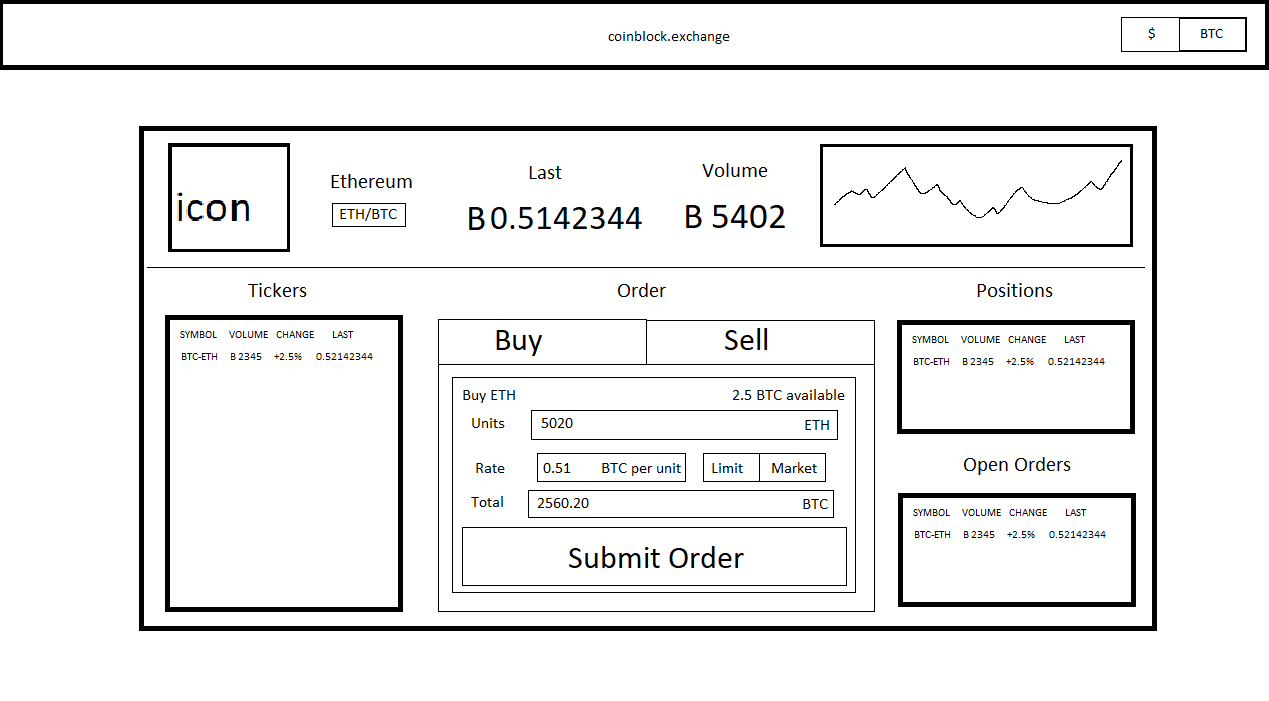
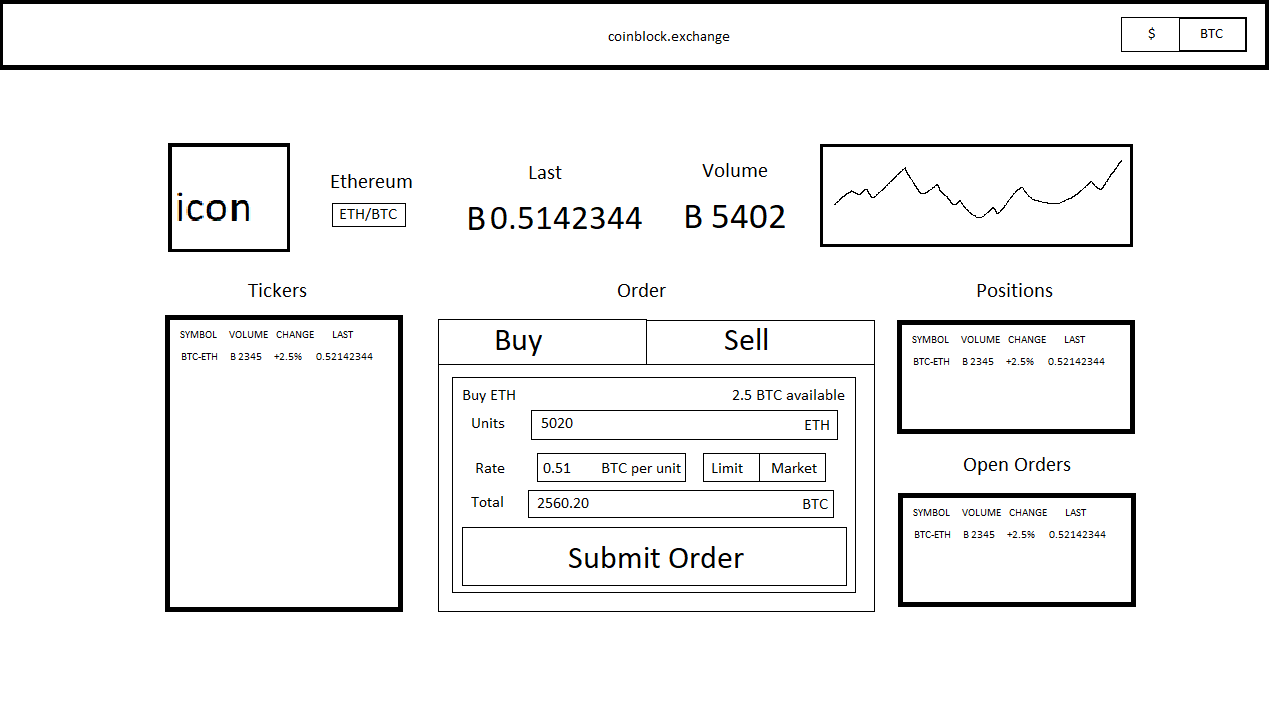
More UI prettification.

Changed region(s): [[0.0922, 0.1797, 0.922, 0.8987]]

diff --git a/src/App.css b/src/App.css
@@ -1,12 +1,11 @@
 html {
   --transparent-container-background: rgba(168, 210, 220, 0.05);
   --light-gray: rgb(128, 128, 128);
-  --coinblock-exchange-gray: rgb(34, 34, 34);
+  --coinblock-exchange-gray: rgb(34, 34, 34, .9);
 }
 
 a:link {
   color: white;
-  border-radius: 10px;
   background: linear-gradient(0deg, var(--transparent-container-background), rgba(34, 34, 34,.1) 80%);
   border: none;
   padding: 5px;
@@ -31,7 +30,7 @@ a:visited {
 a:hover {
   color: white;
   background-color: rgba(0,0,0,.1);
-  border-top: 1px solid red;
+  border-top: 1px solid var(--transparent-container-background);
   border-right: 1px solid var(--coinblock-exchange-gray);
   border-bottom: 1px solid transparent;
 }
@@ -78,10 +77,32 @@ input {
   display: flex;
   flex-direction: column;
   align-items: center;
+  background: rgba(26, 23, 34, 0.95);
+}
+
+video.app__background-video {
+  position: fixed;
+  top: 50%;
+  left: 50%;
+  min-width: 100%;
+  min-height: 100%;
+  width: auto;
+  height: auto;
+  z-index: -100;
+  transform: translateX(-50%) translateY(-50%);
+}
+
+@media only screen and (max-width: 768px) {
+  video {
+    display:none;
+  }
+  body{
+    background-image:url(/light-background.jpg);
+  }
 }
 
 .app__header {
-  background-color: #222;
+  background-color: var(--coinblock-exchange-gray);
   padding-top: 20px;
   padding-bottom: 20px;
   color: white;
@@ -131,7 +152,7 @@ input {
   align-items: center;
   flex: .1;
   width: 100vw;
-  background-color: #222;
+  background-color: var(--coinblock-exchange-gray);
 }
 
 .coin-info {
@@ -201,7 +222,7 @@ input {
 
 .coin-info__values__charts {
   flex: 0;
-  background-color: #222;
+  background-color: var(--coinblock-exchange-gray);
 }
 
 
@@ -349,6 +370,7 @@ input {
 
 .order__tools__selection__submit-order__button {
   font-size: 20px;
+  border-radius: 0;
 }
 
 .positions-and-orders {

diff --git a/src/App.js b/src/App.js
@@ -8,6 +8,9 @@ class App extends Component {
   render() {
     return (
       <div className="app">
+        <video className="app__background-video" loop autoPlay>
+          <source src="http://design.enter-media.org/upload/iblock/5e4/5e4c2cfea12f0398d79570fd28c37822.webm" type="video/webm" />
+        </video>
         <header className="app__header">
           <h1 className="app__header__title">coinblock.exchange</h1>
           {/* <div className="app__header__currency-toggle">
